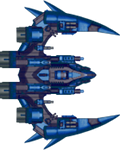
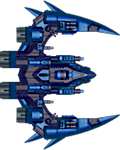
sharpened ship image and added a green version for remote player

diff --git a/scripts/client/loader.js b/scripts/client/loader.js
@@ -47,7 +47,7 @@ MyGame.loader = (function() {
             source: 'assets/blueShip.png'
         }, {
             key: 'player-other',
-            source: 'assets/playerShip1_red.png'
+            source: 'assets/greenShip.png'
         }, {
             key: 'asteroid',
             source: 'assets/asteroid.png'
